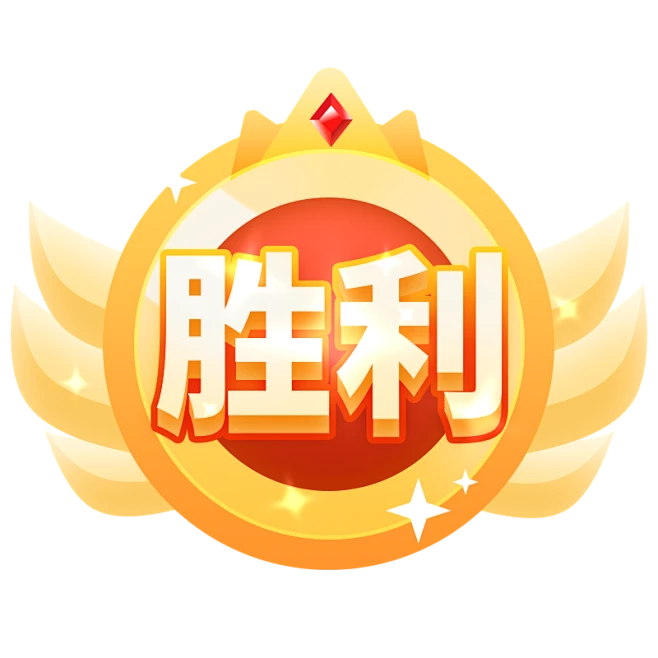
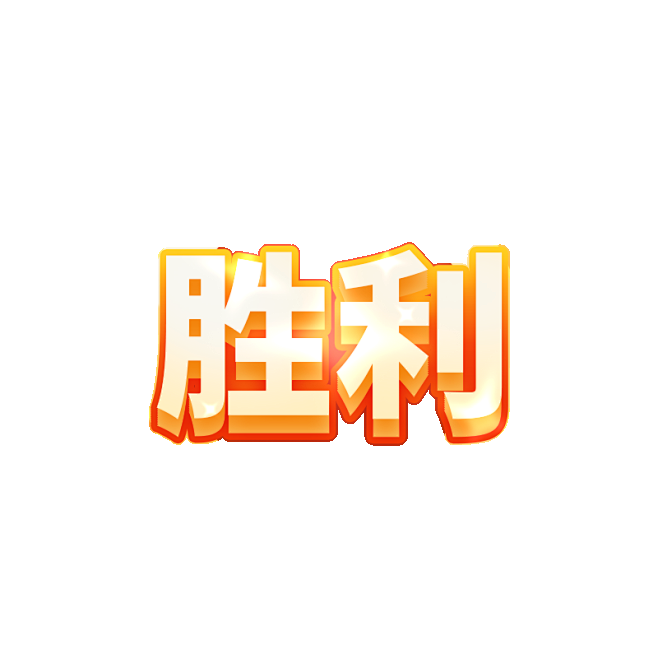
换图

diff --git a/JigsawGame/src/UI/GameFrame.java b/JigsawGame/src/UI/GameFrame.java
@@ -134,7 +134,7 @@ public class GameFrame extends JFrame implements KeyListener {
         if(victory()){
 
             //显示胜利图片
-            JLabel winImage = new JLabel(new ImageIcon("JigsawGame/image/sport/win.jpg"));
+            JLabel winImage = new JLabel(new ImageIcon("JigsawGame/image/sport/win.png"));
             winImage.setBounds(45,65,510,550);
             this.getContentPane().add(winImage);
         }
